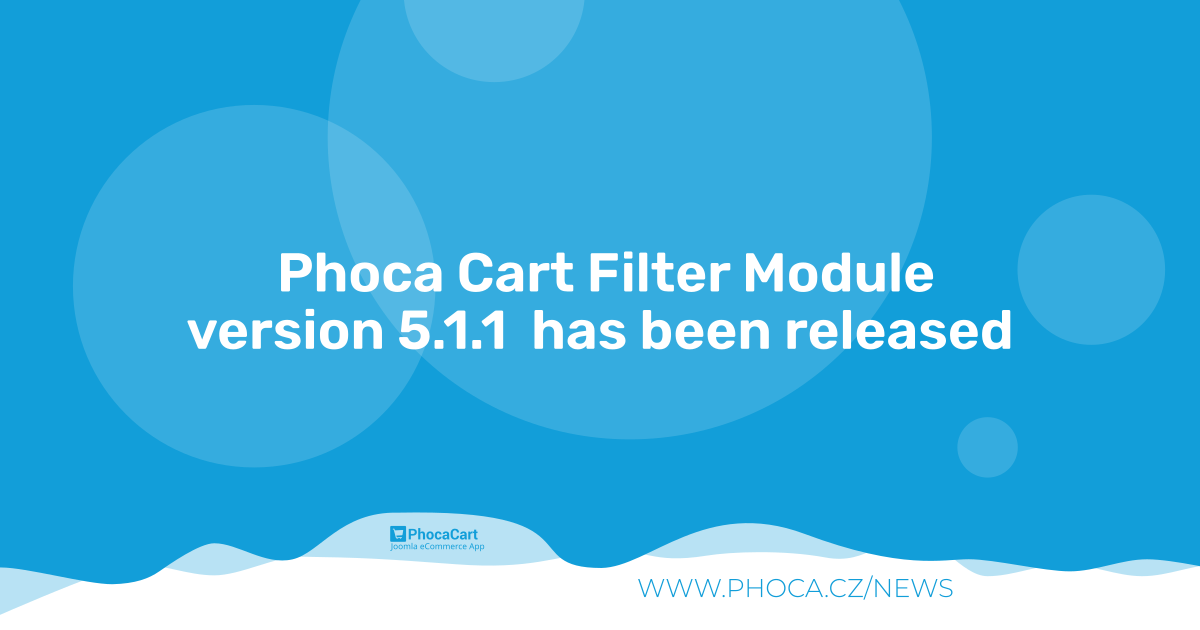
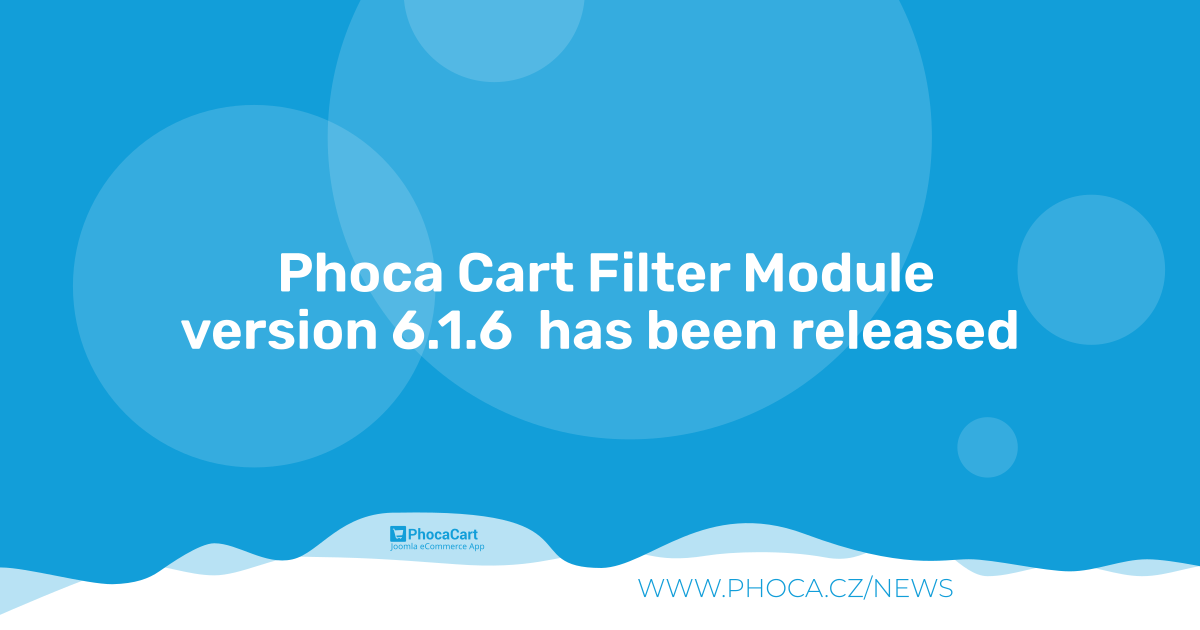
6.1.6

Changed region(s): [[0.1542, 0.4825, 0.8633, 0.573]]

diff --git a/mod_phocacart_filter.php b/mod_phocacart_filter.php
@@ -88,6 +88,38 @@ $filter->display_manufacturer_count		= $params->get( 'display_manufacturer_count
 $filter->check_available_products		= $params->get( 'check_available_products', 1 );
 $filter->remove_parameters_cat			= $params->get( 'remove_parameters_cat', 0 );
 $filter->load_component_media			= $params->get( 'load_component_media', 1 );
+$filter->filter_label_horizontal_layout = $params->get( 'filter_label_horizontal_layout', 0 );
+
+if ((int)$filter->filter_label_horizontal_layout > 0) {
+	$moduleclass_sfx = $moduleclass_sfx . ' ph-filter-label-box';
+}
+
+$view 						= $app->getInput()->get('view', '');
+$option 					= $app->getInput()->get('option', '');
+$idCom						= $app->getInput()->get('id', '');
+
+$p = [];
+$p['display_view'] 			= $params->get( 'display_view', '');
+$p['display_option'] 		= $params->get( 'display_option', '');
+$p['display_id'] 			= $params->get( 'display_id', '');
+$optionA 	= array_map('trim', explode(',', $p['display_option']));// Remove spaces
+$viewA 		= array_map('trim', explode(',', $p['display_view']));
+$idA 		= array_map('trim', explode(',', $p['display_id']));
+$optionA	= array_filter($optionA);// Remove empty values from array
+$viewA 		= array_filter($viewA);
+$idA 		= array_filter($idA);
+
+if (empty($optionA) && empty($viewA) && empty($idA)) {
+	// OK - all parameters are not set
+} else if (!empty($optionA) && in_array($option, $optionA) && empty($viewA) && empty($idA)) {
+	// OK - only option is set and it meets the criteria
+} else if (!empty($optionA) && in_array($option, $optionA) && !empty($viewA) && in_array($view, $viewA) && empty($idA)) {
+	// OK - option and view is set and it meets the criteria
+} else if (!empty($optionA) && in_array($option, $optionA) && !empty($viewA) && in_array($view, $viewA) && !empty($idA) && in_array($idCom, $idA) ) {
+	// OK - option and view and ID is set and it meets the criteria
+} else {
+	return '';
+}
 
 $language = '';
 if ($filter->filter_language == 1) {
@@ -227,7 +259,7 @@ $s = PhocacartRenderStyle::getStyles();
 if ($filter->load_component_media == 1) {
 	$media = PhocacartRenderMedia::getInstance('main');
 	$media->loadBase();
-	$media->loadBootstrap();
+	//$media->loadBootstrap();
 	$media->loadSpec();
 }
 

diff --git a/tmpl/horizontal.php b/tmpl/horizontal.php
@@ -6,12 +6,28 @@
  * @copyright Copyright (C) Jan Pavelka www.phoca.cz
  * @license http://www.gnu.org/copyleft/gpl.html GNU/GPL
  */
+
+use Joomla\CMS\Language\Text;
+
 defined('_JEXEC') or die;
 \Joomla\CMS\HTML\HTMLHelper::_('bootstrap.dropdown', '.dropdown', []);
 
 echo '<div class="ph-filter-box-horizontal'.$moduleclass_sfx .'">';
+if ($filter->filter_label_horizontal_layout == 1) {
+    echo '<div class="ph-filter-label">'.Text::_('MOD_PHOCACART_FILTER_FILTER_LABEL_TEXT').': </div>';
+} else if ($filter->filter_label_horizontal_layout == 2) {
+    echo '<div class="ph-filter-label">'. PhocacartRenderIcon::icon($s['i']['filter'], '', ' ') . '</div>';
+}
+if ((int)$filter->filter_label_horizontal_layout > 0) {
+    echo '<div class="ph-filter-content">';
+}
 echo $filter->renderList([
   'layout' => 'form_filter_horizontal',
   'wrapper_role' => '',
 ]);
+
+if ((int)$filter->filter_label_horizontal_layout > 0) {
+    echo '</div>';
+}
 echo '</div>';
+

diff --git a/README.MD b/README.MD
@@ -20,81 +20,69 @@ Our compliance with the principles of free and open-source software is establish
 
 *This repository is a shared community resource dedicated to the global open-source ecosystem.*
 
+### Community Feedback & Contributions
 
-## Project page
+We welcome your feedback and active involvement. You can join the development and follow the progress on public, independent GitHub pages at [https://github.com/PhocaCz](https://github.com/PhocaCz).
+Any feedback, bug reports, feature suggestions, or code improvements can be submitted transparently via **GitHub Issues** or **Pull Requests** within the respective repository.
 
-[Phoca Cart Filter Module](https://www.phoca.cz/phoca-cart-filter-module)
+### Accompanying External Resources
 
-[Phoca Cart Info Page](https://www.phoca.cz/project/phocacart-joomla-ecommerce)
+If you need additional information beyond this GitHub repository, further documentation, updates, and community channels are available on the following external websites:
 
+#### External Project Information
 
-
-## Documentation
-
-[Documentation](https://www.phoca.cz/documentation/category/122-phoca-cart-filter-module)
-
-
-
-
-
-## Support
-
-[Phoca Forum](https://www.phoca.cz/forum)
-
-:bell: [Phoca Forum RSS](https://www.phoca.cz/forum/app.php/feed)
+- [Phoca Cart Filter Module](https://www.phoca.cz/phoca-cart-filter-module)
+- [Phoca Cart Info Page](https://www.phoca.cz/project/phocacart-joomla-ecommerce)
+- [Project is listed on Joomla Extensions Directory](https://extensions.joomla.org/)
+- [Project is listed on Phoca download directory](https://www.phoca.cz/download)
 
 
+#### External Documentation
 
-## News
-
-[Phoca News](https://www.phoca.cz/news)
-
-:bell: [Phoca News RSS](https://www.phoca.cz/news?format=feed&type=rss)
-
-:bell: [Phoca Latest Releases RSS](https://www.phoca.cz/download/feed/111?format=feed&type=rss)
+- [Documentation](https://www.phoca.cz/documentation/category/122-phoca-cart-filter-module)
 
 
+#### External Community Support
 
-## Demo
+- [Phoca Forum](https://www.phoca.cz/forum)
+- [Joomla Forum](https://forum.joomla.org/)
+- [Joomlaportal.cz Forum - Czech](https://www.joomlaportal.cz/forum)
+- [Joomla.de Supportforum - German](https://forum.joomla.de/)
+- :bell: [Phoca Forum RSS](https://www.phoca.cz/forum/app.php/feed)
 
-[Joomla! - Phoca Cart Demo](https://www.phoca.cz/phocacartdemo/)
 
-[Joomla! - Phoca Cart - Phoca Premiere Template Demo](https://www.phoca.cz/phocacartdemo/premiere/)
+#### External News & Feeds
+
+- [Phoca News](https://www.phoca.cz/news)
+- [Joomlaportal.cz News](https://www.joomlaportal.cz/novinky)
+- :bell: [Phoca News RSS](https://www.phoca.cz/news?format=feed&type=rss)
+- :bell: [Phoca Latest Releases RSS](https://www.phoca.cz/download/feed/111?format=feed&type=rss)
 
 
+#### Demo
 
-## Version (Joomla! 3.x)
+- [Joomla! - Phoca Cart Demo](https://www.phoca.cz/phocacartdemo/)
+- [Joomla! - Phoca Cart - Phoca Premiere Template Demo](https://www.phoca.cz/phocacartdemo/premiere/)
 
+### Version (Joomla! 3.x - no longer supported)
 3.5.8
-
-## Version (Joomla! 4.x)
-
+### Version (Joomla! 4.x - no longer supported)
 4.0.9
-
-## Version (Joomla! 5.x)
-
+### Version (Joomla! 5.x - no longer supported)
 5.1.1
+### Version (Joomla! 6.x)
+6.1.6
 
-
-
-## License
+### License
 
 GNU/GPL
 
-
-
 This project is open source project - feel free to contribute! Thank you.
 
-
-
-## Social Media
+### Social Media
 
 - [Phoca on Facebook](https://www.facebook.com/Phoca.cz)
-
 - [Phoca on X (Twitter)](https://twitter.com/PhocaCz)
-
 - [Phoca on YouTube](https://www.youtube.com/user/phocavideos)
-
 - [Phoca on GitHub](https://github.com/PhocaCz)
-
 - [Phoca on Reddit](https://www.reddit.com/user/PhocaCz)

diff --git a/FOSS.md b/FOSS.md
@@ -1,0 +1,13 @@
+Free and Open Source Software (FOSS) Declaration
+
+This project is developed, distributed, and maintained strictly as **Free and Open Source Software (FOSS)**. It is provided entirely outside the course of any commercial activity as an independent public resource.
+
+Our compliance with the principles of free and open-source software is established by the following structural and operational guidelines:
+
+* **Strictly Non-Commercial & Public Good:** This software is provided 100% free of charge. No commercial entities control or fund this repository, and there are no commercial monetization models, paid subscriptions, or premium paywalls associated with this codebase.
+* **Independent Volunteer Contributions:** The development, maintenance, and testing of this extension are driven entirely by independent, voluntary contributions from the global community.
+* **No Commercial Technical Support:** Technical support is not provided as a paid commercial service by the maintainers of this repository. Community assistance is available on a voluntary, non-binding basis via public forums.
+* **No Proprietary Lock-in:** The software is licensed under the copyleft GNU General Public License (GPL). You have absolute freedom to run, study, share, modify, and redistribute the code.
+* **Decentralized Infrastructure:** This codebase is hosted in a public, transparent repository on GitHub to foster open collaborative development and public peer review, ensuring safety and quality through community vigilance.
+
+*This repository is a shared community resource dedicated to the global open-source ecosystem.*
